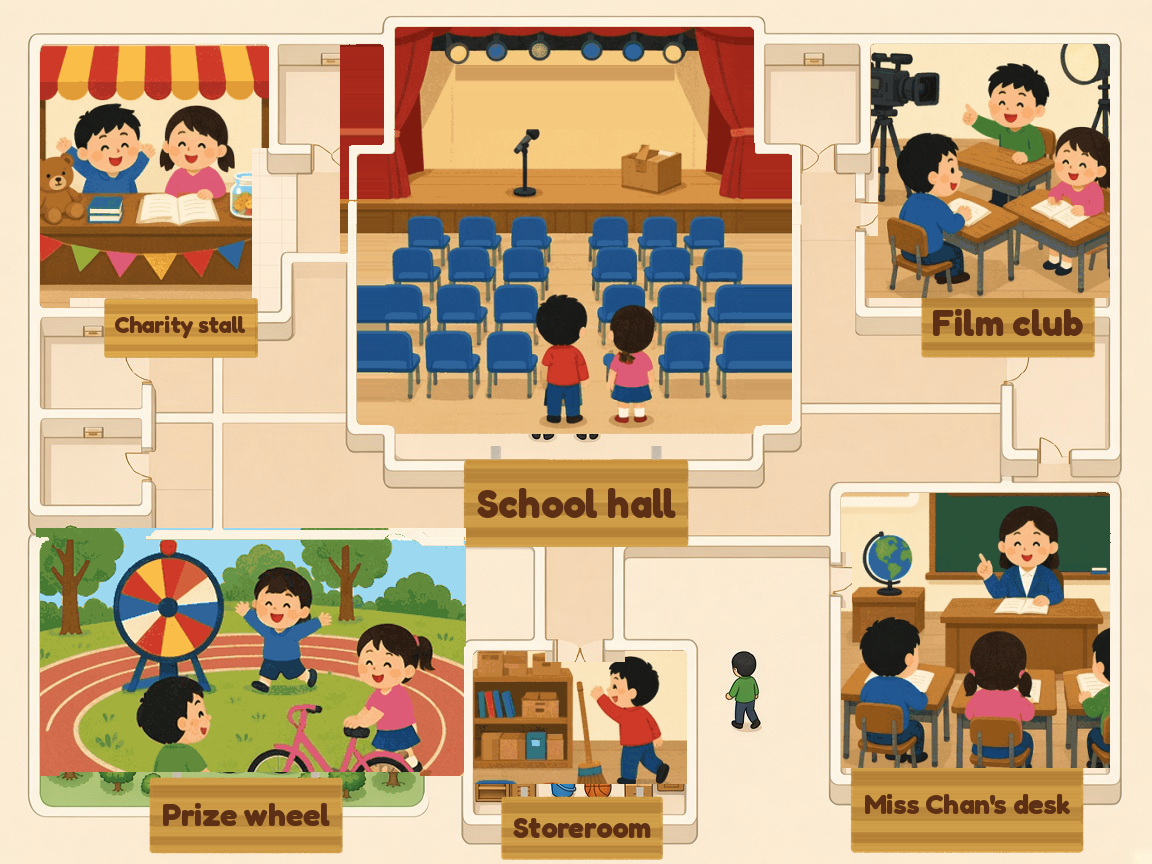
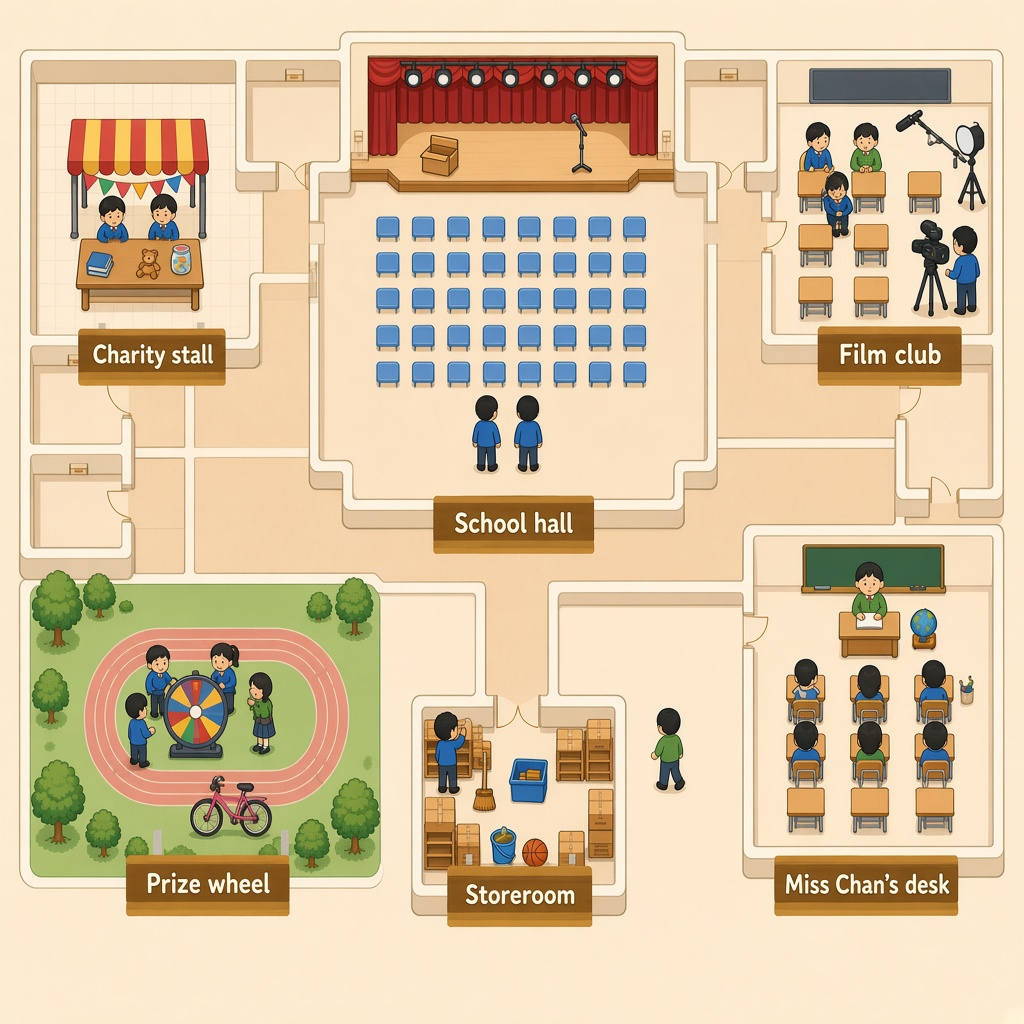
fix: seat the approved school floor plan and realign room hotspots
Replace the School Mystery map with the approved square floor plan and move each room hit area onto Charity stall, School hall, Film club, Prize wheel, the storeroom, and Miss Chan's desk.

diff --git a/game/clue-hunt.html b/game/clue-hunt.html
@@ -8,7 +8,7 @@
 <link rel="preconnect" href="https://fonts.gstatic.com" crossorigin/>
 <link href="https://fonts.googleapis.com/css2?family=Fredoka:wght@500;600;700&family=Nunito:wght@400;500;600;700&display=swap" rel="stylesheet"/>
 <link rel="stylesheet" href="../practice/grammar/grammar.css?v=46"/>
-<link rel="stylesheet" href="game.css?v=42"/>
+<link rel="stylesheet" href="game.css?v=43"/>
 </head>
 <body>
 <header class="prac-header">
@@ -75,7 +75,7 @@
         <h2 class="hunt-q">School fair</h2>
         <div class="fair-map">
           <!-- Walls and signs from the school plan; irasutoya scenes sit inside the rooms. -->
-          <img class="fair-map-base" src="illust/map-school-doorplates.png?v=10" alt="School floor plan" width="1152" height="864"/>
+          <img class="fair-map-base" src="illust/map-school-doorplates.png?v=11" alt="School floor plan" width="1024" height="1024"/>
           <button type="button" class="hotspot pin-stall" data-hotspot="stall"><span>Charity stall</span></button>
           <button type="button" class="hotspot pin-wheel" data-hotspot="wheel"><span>Prize wheel</span></button>
           <button type="button" class="hotspot pin-film" data-hotspot="film"><span>Film club</span></button>

diff --git a/test/clue-hunt-map.test.js b/test/clue-hunt-map.test.js
@@ -125,7 +125,7 @@ test('notebook and solve page are present, without a missing-person picker', () 
 test('clue hunt styles use fills and contain the pictures', () => {
   const html = huntHtml();
   const css = fs.readFileSync(path.join(root, 'game/game.css'), 'utf8');
-  assert.match(html, /game\.css\?v=42/);
+  assert.match(html, /game\.css\?v=43/);
   assert.doesNotMatch(css, /#e25c12/);
   assert.match(css, /\.fair-map \{/);
   assert.match(css, /\.hotspot \{[^}]*position:\s*absolute/);
@@ -162,7 +162,7 @@ test('clue hunt styles use fills and contain the pictures', () => {
   assert.match(css, /\.zoom-frame \{[^}]*aspect-ratio:\s*1/);
   assert.match(css, /\.zoom-frame img \{[^}]*object-fit:\s*cover/);
   assert.match(css, /\.notebook #open-solve \{[^}]*width:\s*auto/);
-  assert.match(html, /map-school-doorplates\.png\?v=10/);
+  assert.match(html, /map-school-doorplates\.png\?v=11/);
   assert.match(html, /id="scene-kicker" hidden/);
   assert.doesNotMatch(html, /"Search"/);
   assert.match(css, /\.zoom-card \.talk-said \{[^}]*background:\s*var\(--choice-bg\)/);

diff --git a/game/game.css b/game/game.css
@@ -93,12 +93,12 @@
   color: transparent;
   pointer-events: none;
 }
-.pin-stall { left: 3.47%; top: 5.09%; width: 19.88%; height: 42.71%; }
-.pin-wheel { left: 2.78%; top: 60.65%; width: 37.67%; height: 38.43%; }
-.pin-film { left: 74.65%; top: 4.63%; width: 21.70%; height: 43.29%; }
-.pin-hall { left: 29.51%; top: 3.13%; width: 39.24%; height: 57.06%; }
-.pin-desk { left: 72.57%; top: 56.48%; width: 24.31%; height: 42.59%; }
-.pin-store { left: 40.80%; top: 74.54%; width: 20.83%; height: 24.54%; }
+.pin-stall { left: 3.91%; top: 8.30%; width: 20.51%; height: 29.39%; }
+.pin-wheel { left: 3.13%; top: 57.03%; width: 33.98%; height: 32.23%; }
+.pin-film { left: 75.78%; top: 6.05%; width: 20.90%; height: 31.84%; }
+.pin-hall { left: 31.74%; top: 4.30%; width: 36.82%; height: 50.00%; }
+.pin-desk { left: 74.02%; top: 52.34%; width: 22.46%; height: 37.11%; }
+.pin-store { left: 41.41%; top: 69.53%; width: 18.55%; height: 20.70%; }
 .hotspot:hover,
 .hotspot:focus,
 .hotspot:focus-visible {
